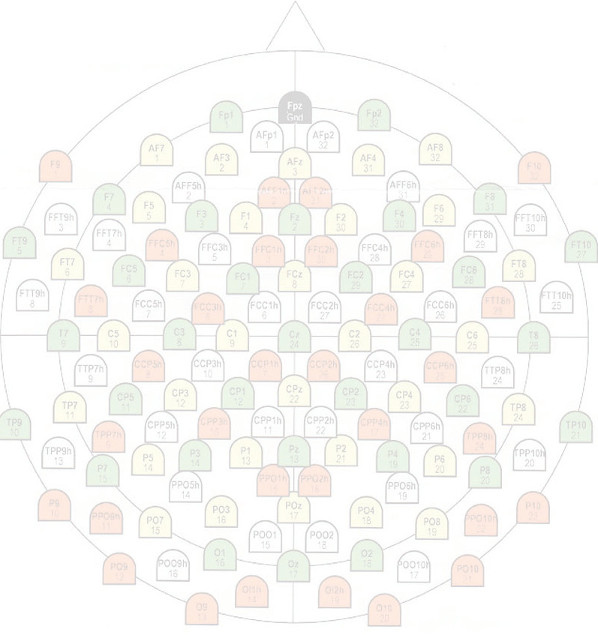
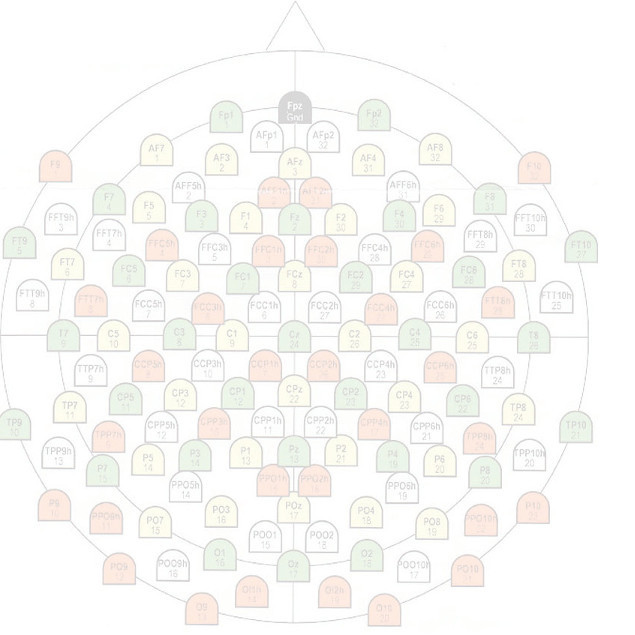
made the bubble head diagram smaller, added remove() so it doesnt append anymore, about to merge line graph

diff --git a/index.html b/index.html
@@ -1,0 +1,86 @@
+<!DOCTYPE html>
+<html lang="en">
+  <head>
+    <meta charset="utf-8">
+    <meta http-equiv="X-UA-Compatible" content="IE=edge">
+    <meta name="viewport" content="width=device-width, initial-scale=1">
+    <meta name="description" content="">
+    <meta name="author" content="">
+    <link rel="icon" href="../../favicon.ico">
+
+    <title>EEG Brain Visualization Project</title>
+
+    <!-- Bootstrap core CSS -->
+    <link href="/libs/bootstrap/dist/css/bootstrap.min.css" rel="stylesheet">
+
+    <!-- Custom styles for this template -->
+    <link href="/libs/bootstrap/dist/css/cover.css" rel="stylesheet">
+
+    <!-- Just for debugging purposes. Don't actually copy these 2 lines! -->
+    <!--[if lt IE 9]><script src="../../assets/js/ie8-responsive-file-warning.js"></script><![endif]-->
+    <script src="../../assets/js/ie-emulation-modes-warning.js"></script>
+
+    <!-- HTML5 shim and Respond.js for IE8 support of HTML5 elements and media queries -->
+    <!--[if lt IE 9]>
+      <script src="https://oss.maxcdn.com/html5shiv/3.7.2/html5shiv.min.js"></script>
+      <script src="https://oss.maxcdn.com/respond/1.4.2/respond.min.js"></script>
+    <![endif]-->
+  </head>
+
+  <body>
+
+    <div class="site-wrapper">
+
+      <div class="site-wrapper-inner">
+
+        <div class="cover-container">
+
+          <div class="masthead clearfix">
+            <div class="inner">
+              <h3 class="masthead-brand">Data Viz</h3>
+              <nav>
+                <ul class="nav masthead-nav">
+                  <li class="active"><a href="#">Home</a></li>
+                  <li><a href="matrix-correlation-diagram.html">Correlation Matrix</a></li>
+                  <li><a href="source/bubblehead.html">Bubble Head</a></li>
+		  <li><a href="source/eeg_viz_proj.html">Picture Chooser</a></li>
+                </ul>
+              </nav>
+            </div>
+          </div>
+
+          <div class="inner cover">
+            <h1 class="cover-heading">CSC599 Data Visualization of EEG Data</h1>
+            <p class="lead">Under the guidance of Professor Timothy Ellmore</p>
+            <p class="lead">
+              <a href="matrix-correlation-diagram.html" class="btn btn-lg btn-default">Correlation of brain waves for each image</a>
+<br>
+		<a href="source/bubblehead.html" class="btn btn-lg btn-default">Activation of nodes for each image</a>
+		<a href="source/bubblehead.html" class="btn btn-lg btn-default">Choose Pictures to Compare Nodes</a>
+            </p>
+		<p>Professor Grossberg</p>
+		<p>Waleed Asif</p>
+		<p>Matt</p>
+		<p>Raj</p>
+          </div>
+
+          <div class="mastfoot">
+            <div class="inner">
+              <p>Cover template for <a href="http://getbootstrap.com">Bootstrap</a>, by <a href="https://twitter.com/mdo">@mdo</a>.</p>
+            </div>
+          </div>
+
+        </div>
+
+      </div>
+
+    </div>
+
+    <!-- Bootstrap core JavaScript
+    ================================================== -->
+    <!-- Placed at the end of the document so the pages load faster -->
+    <script src="https://ajax.googleapis.com/ajax/libs/jquery/1.11.1/jquery.min.js"></script>
+    <script src="/libs/bootstrap/dist/js/bootstrap.min.js"></script>
+  </body>
+</html>
+

diff --git a/matrix-correlation-diagram.html b/matrix-correlation-diagram.html
@@ -247,10 +247,10 @@
 
 
           var svg = d3.select(div_tag).append("svg")
-              .attr("width", 635)
-              .attr("height", 635)
+              .attr("width", 476)
+              .attr("height", 476)
               .attr("id", "bubble" + pos)
-              .style("background-image","url(source/unnamed.png)")
+              .style("background-image","url(source/nodes.jpeg)")
               .append("g").attr("transform",
                           "translate(" + margin.left + "," + margin.top + ")");
 
@@ -299,8 +299,8 @@
                       var val  = Math.sqrt(size_scale(d[frame][ctr2])/PI);
                       return val;
                   })
-                  .attr("cx",function(d,i){ return (positions[i*2])*.75;})
-                  .attr("cy",function(d,i){ return (positions[i*2+1])*.75;})
+                  .attr("cx",function(d,i){ return ((positions[i*2])*.75)*.78;})
+                  .attr("cy",function(d,i){ return ((positions[i*2+1])*.75)*.78;})
                   .attr("fill",function(d,i){ return z_list[i](colors[i]); })
                   .style("opacity", 0.9)
                   .on("mouseover", function(d,e,i){
@@ -349,12 +349,12 @@
                     if(dx>0){
                       if(counter>1960){
                         var vv = imageNumber ;
-                        var im1 = "</br><img width='500px' height='300px' src='source/img/"+ vv+  ".jpg'/>";
+                        var im1 = "</br><img src='source/img/"+ vv + ".jpg'/>";
                         body.html(im1);
                         d3.selectAll("#input_label").html(rang.value);
                         rang.value = parseInt(rang.value) + dx;
                         counter=0;
-                        frame = rang.value;
+                        //frame = rang.value;
                         ctr2 = 0;
                       }
                       ctr2 = ctr2 + 1;
@@ -387,7 +387,7 @@
                           .html(this.value);
 
                         var vv = parseInt(rang.value);
-                        var im1 = "</br><img width='500px' height='300px' src='img/"+ vv+  ".jpg'/>";
+                        var im1 = "</br><img src='source/img/"+ vv+  ".jpg'/>";
                         frame = vv;
                         console.log("hi");
 

diff --git a/source/eeg_viz_proj.html b/source/eeg_viz_proj.html
@@ -532,7 +532,7 @@ function draw_bubbleheadr(frame){
 		var svg = d3.select("body").append("div").style("float","left").html("</br><img width='"+background_width+"px' height='"+background_height+"px' src='img/"+frame+".jpg'/>").append("svg")
 			.attr("width", width)
 			.attr("height", height)
-			.style("background-image","url(unnamed.PNG)").style("background-size", width+"px "+height+"px")
+			.style("background-image","url(unnamed.png)").style("background-size", width+"px "+height+"px")
 			.style("float","left")
 			.append("g").attr("transform",
 									"translate(" + margin.left + "," + margin.top + ")");

diff --git a/source/bubblehead.html b/source/bubblehead.html
@@ -74,7 +74,7 @@ d3.text("positions.txt", function(dataa) {
 	var svg = d3.select("body").append("svg")
 		.attr("width", 850)
 		.attr("height", 850)
-		.style("background-image","url(unnamed.PNG)")
+		.style("background-image","url(unnamed.png)")
 		.append("g").attr("transform",
 								"translate(" + margin.left + "," + margin.top + ")");
 
